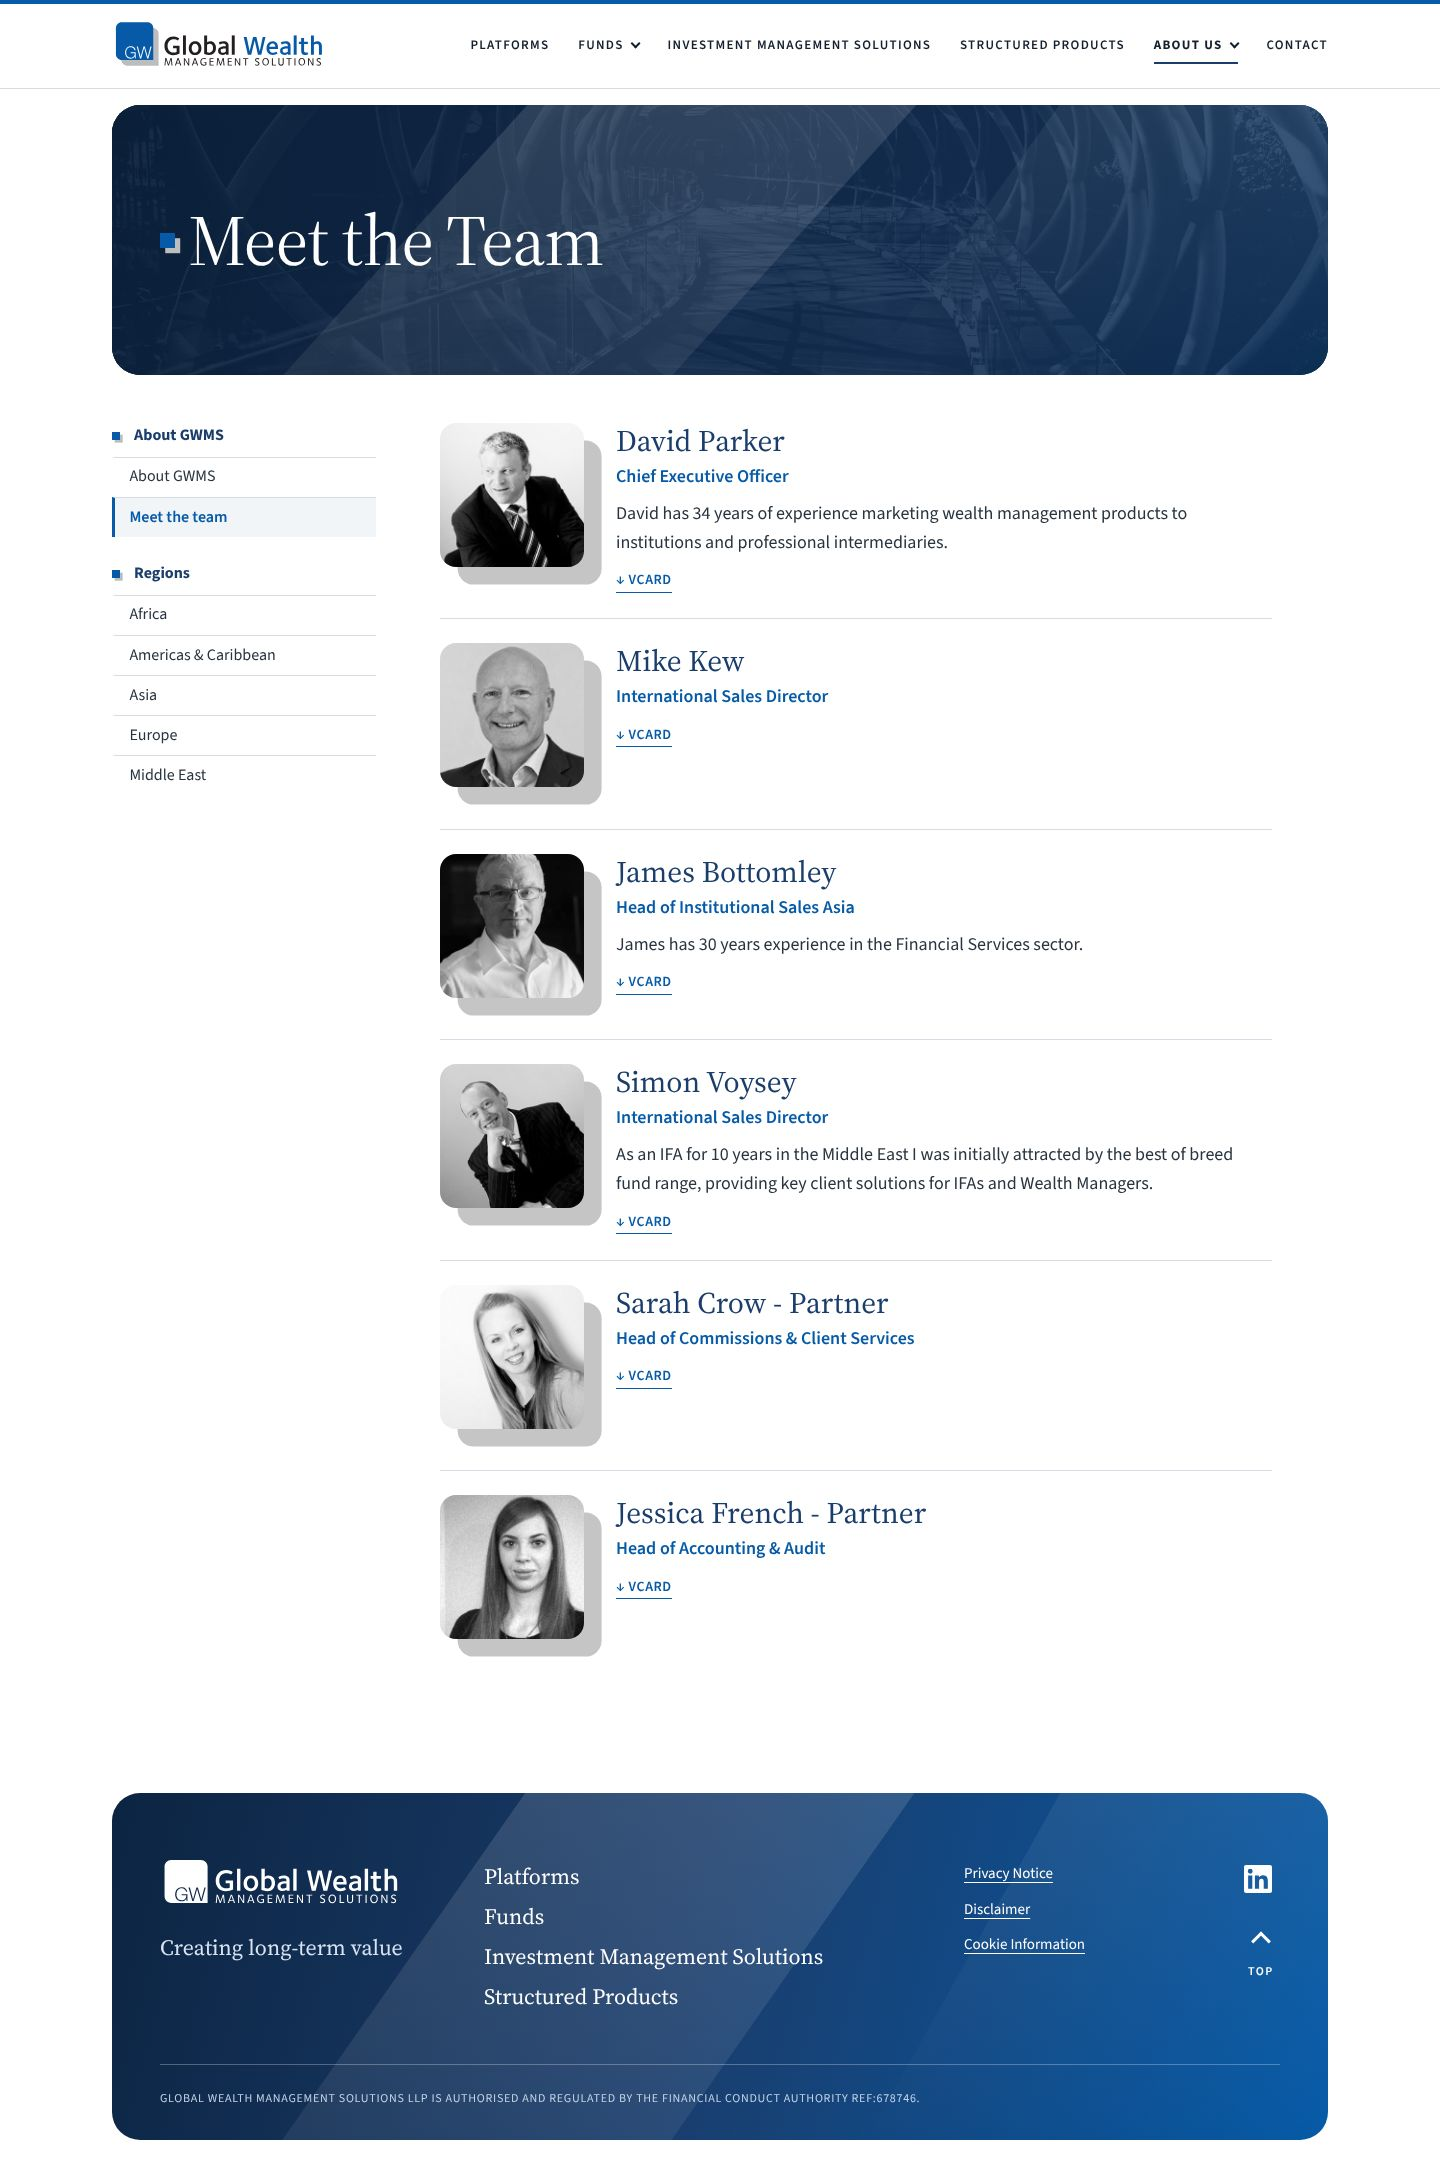
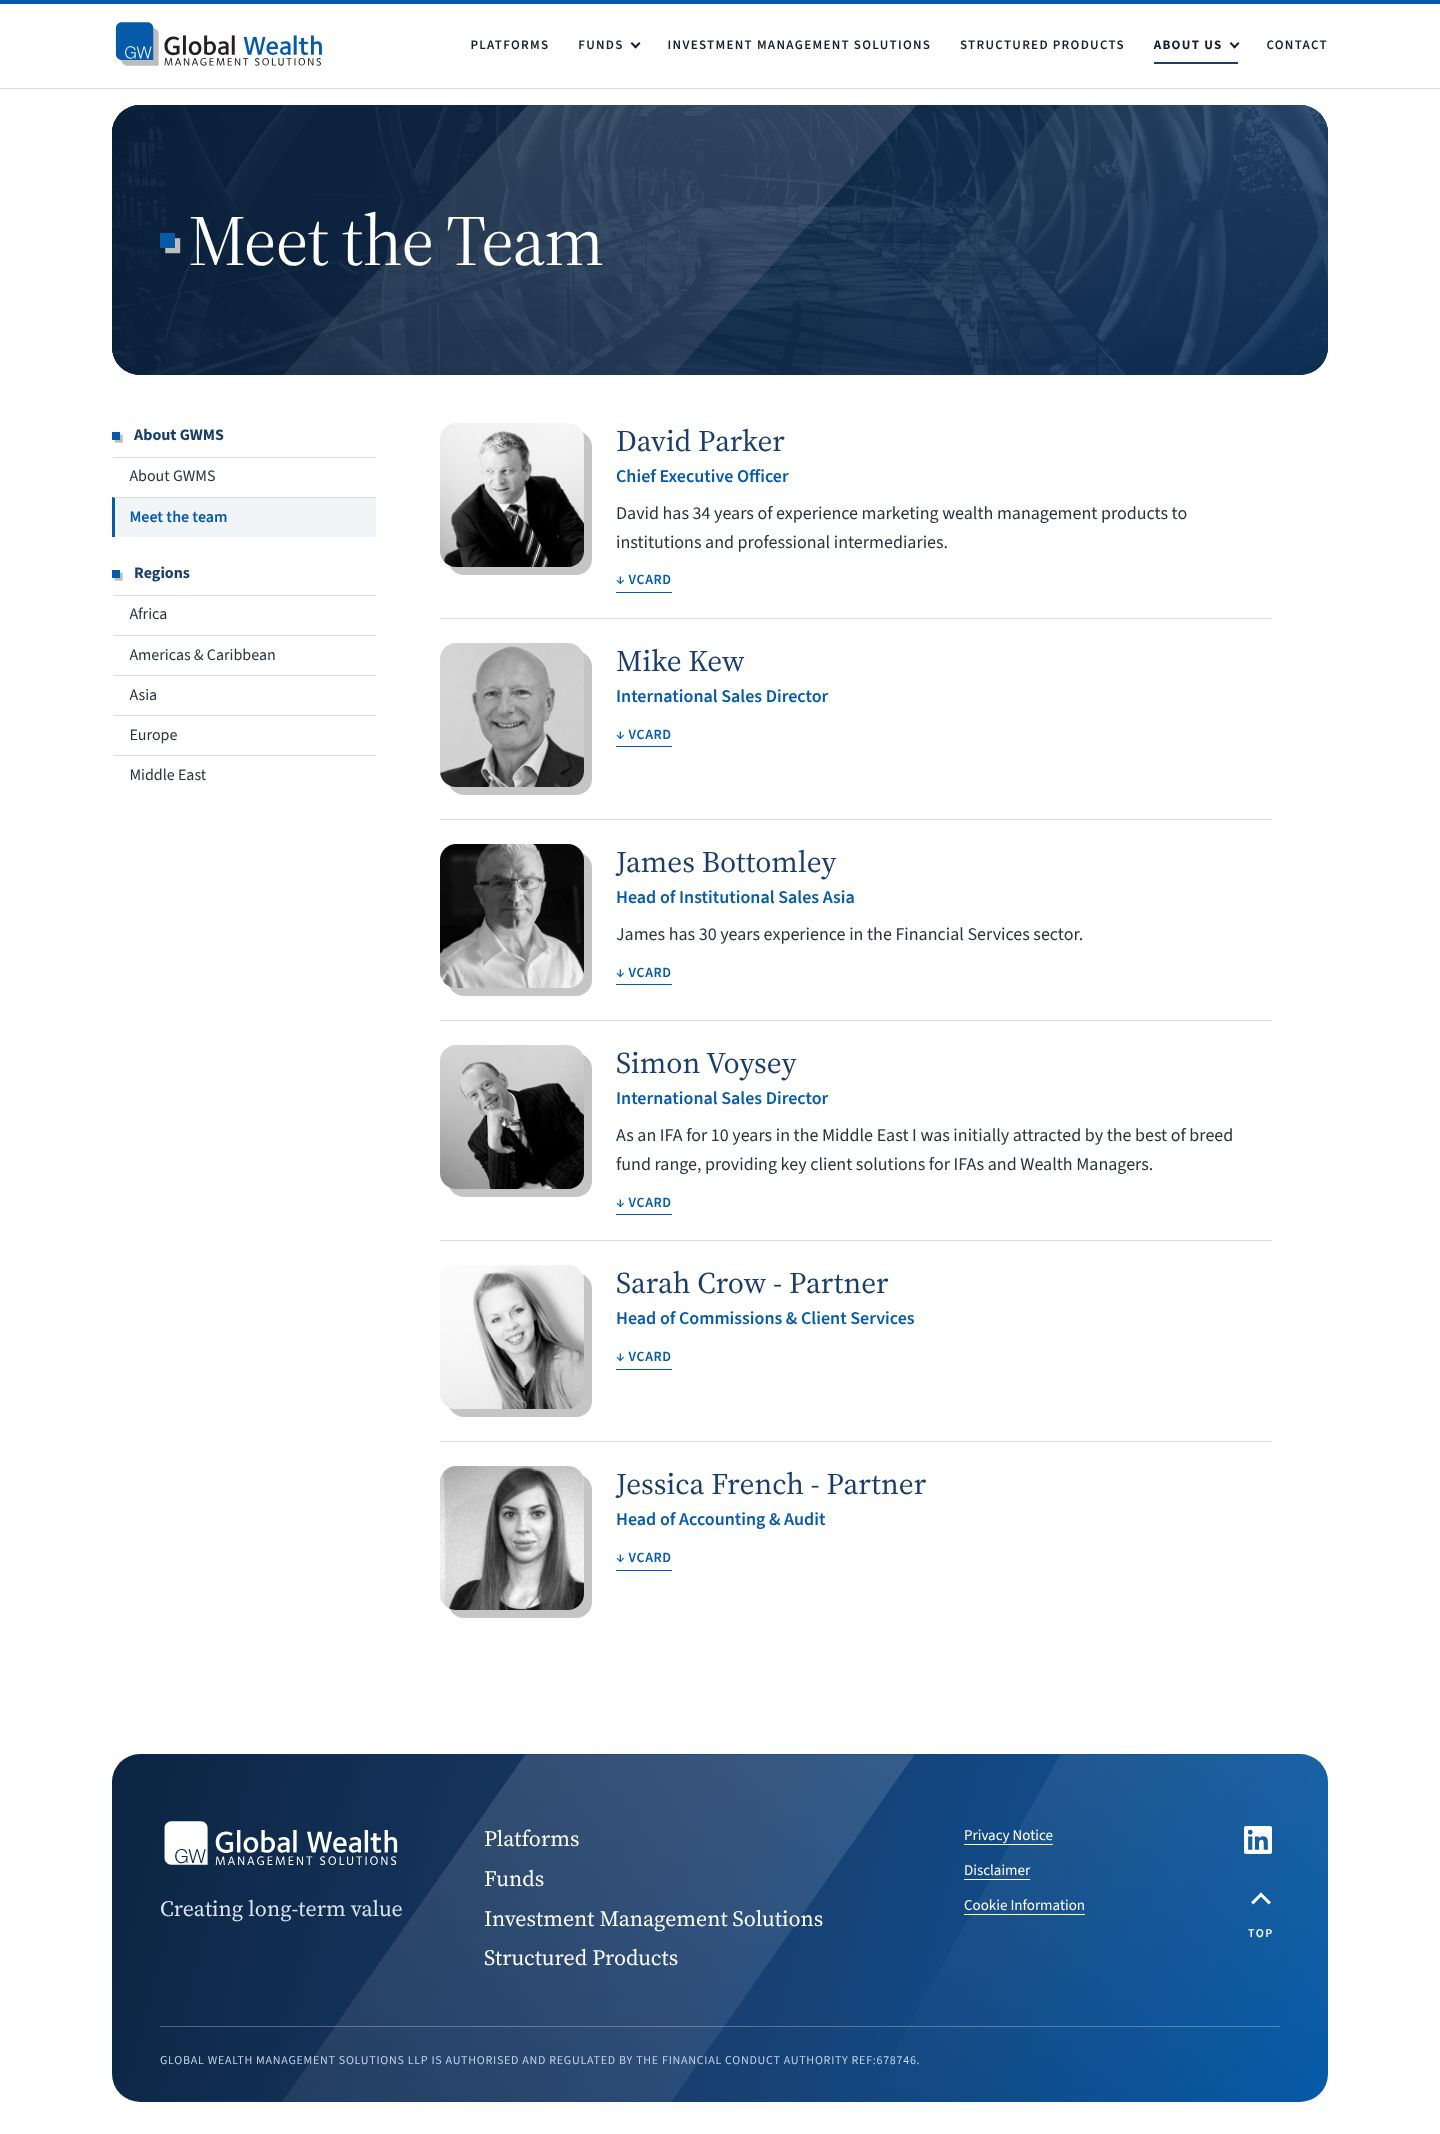
Team thumbnails: 8px grey offset
Claude-Session: https://claude.ai/code/session_01Vdz9cEpY9e2nZicQTN6XQm

diff --git a/dist/css/concept.css b/dist/css/concept.css
@@ -249,7 +249,7 @@
 /* Team-list thumbnail: mirrors the GW icon (photo square over an offset grey rounded square), grayscale until hovered */
 .member__photo {
   display: block; width: 100%; aspect-ratio: 1 / 1; object-fit: cover; background: var(--mist);
-  border-radius: 0.8rem; box-shadow: 0.8rem 0.8rem 0 #c6c5c7; margin-bottom: 0.8rem;
+  border-radius: 0.8rem; box-shadow: 8px 8px 0 #c6c5c7; margin-bottom: 8px;
   filter: grayscale(1); transition: filter 0.5s ease;
 }
 .member:hover .member__photo, .member:focus-within .member__photo { filter: grayscale(0); }
@@ -265,7 +265,7 @@
 .member__vcard { display: inline-block; margin-top: var(--s-3); font-size: 0.875rem; font-weight: 600; letter-spacing: 0.04em; text-transform: uppercase; color: var(--gw-blue); text-decoration: none; border-bottom: 1px solid currentColor; }
 .member__vcard::before { content: "\2193\00a0"; content: "\2193\00a0" / ""; }
 .member__vcard:hover { color: var(--gw-navy); }
-@media (min-width: 40rem) { .member { grid-template-columns: 9rem minmax(0, 1fr); gap: var(--s-6); } .member__photo { border-radius: 1rem; box-shadow: 1.1rem 1.1rem 0 #c6c5c7; margin-bottom: 1.1rem; } }
+@media (min-width: 40rem) { .member { grid-template-columns: 9rem minmax(0, 1fr); gap: var(--s-6); } .member__photo { border-radius: 1rem; box-shadow: 8px 8px 0 #c6c5c7; margin-bottom: 8px; } }
 
 .people { display: grid; gap: var(--s-4); grid-template-columns: repeat(auto-fill, minmax(min(100%, 20rem), 1fr)); max-width: 56rem; margin-top: var(--s-4); }
 .prose h2 + .people { margin-top: var(--s-4); }

diff --git a/preview/css/concept.css b/preview/css/concept.css
@@ -249,7 +249,7 @@
 /* Team-list thumbnail: mirrors the GW icon (photo square over an offset grey rounded square), grayscale until hovered */
 .member__photo {
   display: block; width: 100%; aspect-ratio: 1 / 1; object-fit: cover; background: var(--mist);
-  border-radius: 0.8rem; box-shadow: 0.8rem 0.8rem 0 #c6c5c7; margin-bottom: 0.8rem;
+  border-radius: 0.8rem; box-shadow: 8px 8px 0 #c6c5c7; margin-bottom: 8px;
   filter: grayscale(1); transition: filter 0.5s ease;
 }
 .member:hover .member__photo, .member:focus-within .member__photo { filter: grayscale(0); }
@@ -265,7 +265,7 @@
 .member__vcard { display: inline-block; margin-top: var(--s-3); font-size: 0.875rem; font-weight: 600; letter-spacing: 0.04em; text-transform: uppercase; color: var(--gw-blue); text-decoration: none; border-bottom: 1px solid currentColor; }
 .member__vcard::before { content: "\2193\00a0"; content: "\2193\00a0" / ""; }
 .member__vcard:hover { color: var(--gw-navy); }
-@media (min-width: 40rem) { .member { grid-template-columns: 9rem minmax(0, 1fr); gap: var(--s-6); } .member__photo { border-radius: 1rem; box-shadow: 1.1rem 1.1rem 0 #c6c5c7; margin-bottom: 1.1rem; } }
+@media (min-width: 40rem) { .member { grid-template-columns: 9rem minmax(0, 1fr); gap: var(--s-6); } .member__photo { border-radius: 1rem; box-shadow: 8px 8px 0 #c6c5c7; margin-bottom: 8px; } }
 
 .people { display: grid; gap: var(--s-4); grid-template-columns: repeat(auto-fill, minmax(min(100%, 20rem), 1fr)); max-width: 56rem; margin-top: var(--s-4); }
 .prose h2 + .people { margin-top: var(--s-4); }

diff --git a/docs/10-build-and-test-results.md b/docs/10-build-and-test-results.md
@@ -85,3 +85,4 @@ Photos supplied by the owner added for David Parker, James Bottomley, Simon Voys
 
 ## Update: team thumbnails, personal-page photo, Mike Kew photo
 - Meet the Team thumbnails now mirror the GW icon (photo square over an offset grey `#C6C5C7` rounded square, via CSS `box-shadow`); they are grayscale (CSS `filter`) and fade to colour over 0.5 s on hover or keyboard focus within the row. Personal-page portraits are 75% larger (8rem to 14rem wide). Mike Kew's photo added (full portrait and square crop).
+- Team thumbnail grey offset reduced to 8px (all widths).
